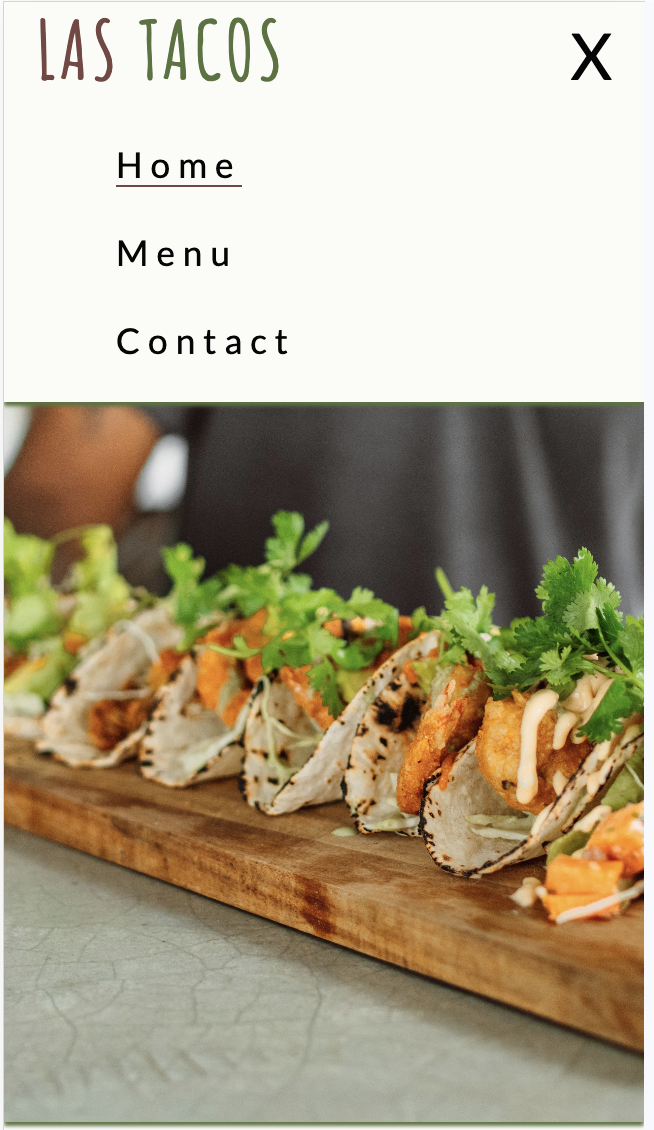
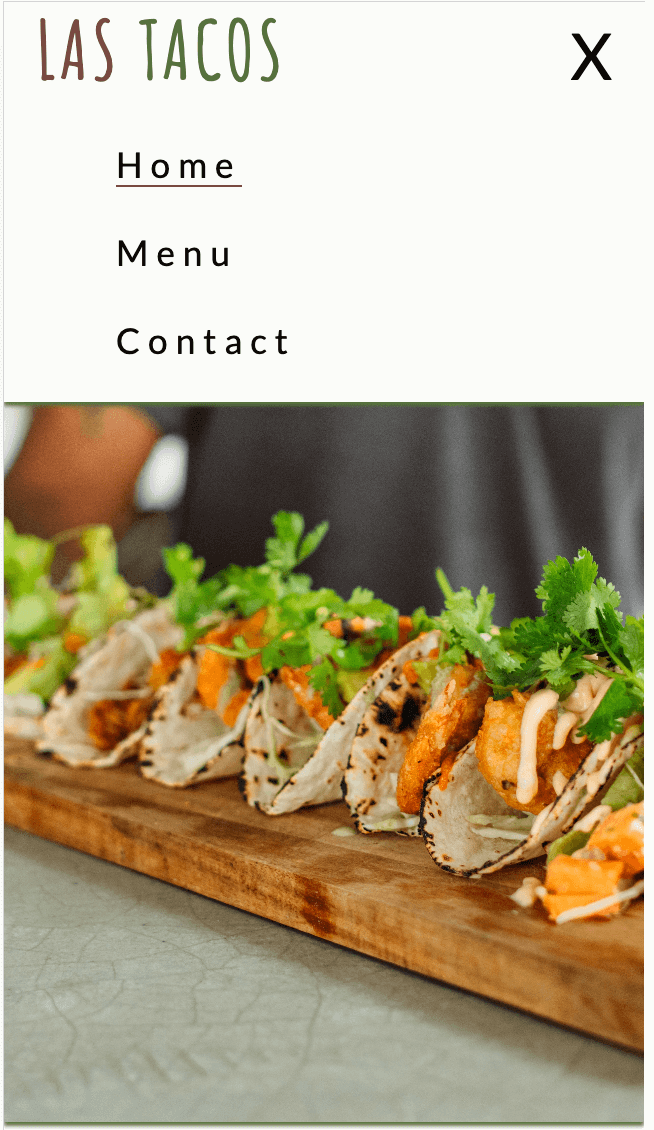
reducing mobile nav image for ReadMe and final commit

diff --git a/assets/css/style.css b/assets/css/style.css
@@ -62,6 +62,11 @@ header a {
     color: inherit;
 }
 
+header a#logo h1 {
+    text-decoration: none !important;
+}
+
+
 #menu {
     font-size: 110%;
     letter-spacing: 4px;

diff --git a/README.md b/README.md
@@ -260,7 +260,7 @@ Contact | ![Desktop contact wireframe image](assets/wireframes/desktop-contact.p
 
 ### Accessibility
 
-* Used Lighthouse in Chrome DevTools to confirm that the colours and fonts being used throughout the website are easy to read and accessible.
+* Used Lighthouse in Chrome DevTools to confirm that colours and fonts used throughout the website are easy to read and accessible.
 
 * Lighthouse reports
 
@@ -408,13 +408,13 @@ Contact | ![Desktop contact page image](assets/readme-files/desktop-contact.png)
 
 ## Credits 
 
-- Inspiration from nav toggle bar was taken from the Love Running Project.
-
-- Inspiration for the responsive food and cocktail menu on all screen sizes was taken from the Love Running Project.
-
 ### Content
 
 - All content was written by the developer.
+
+- Inspiration for the nav toggle bar was taken from the Love Running Project.
+
+- Inspiration for the responsive food and cocktail menu on all screen sizes was taken from the Love Running Project.
 
 ### Media
 
